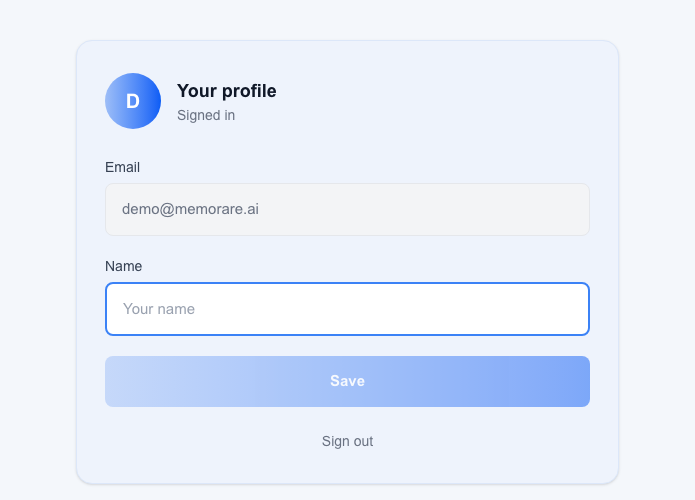
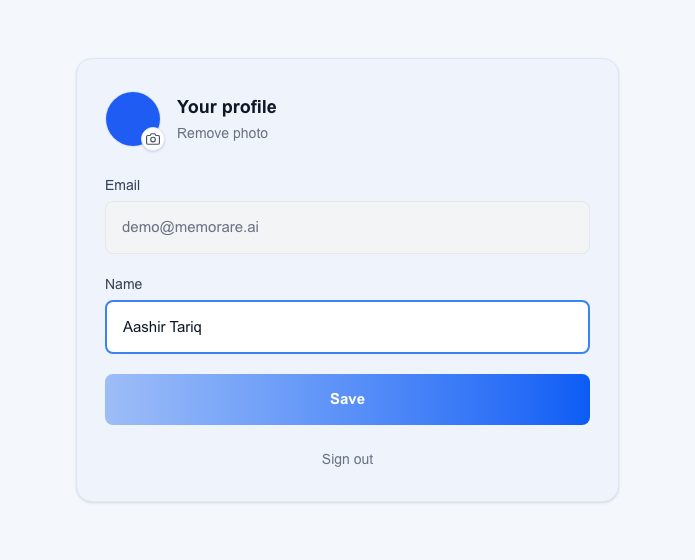
Persist mock profiles per subject and tidy the nginx header block
The mock rebuilt the profile on every token exchange, so an uploaded photo or a
saved name vanished on the next sign-in. Real providers key the profile to the
subject, and the demo now does too. Security headers move to the TLS server
block, where they are inherited by both locations; HSTS on the plain HTTP
redirect was ignored by browsers anyway.

diff --git a/mock/idp.js b/mock/idp.js
@@ -5,8 +5,9 @@ const CLIENT_ID = process.env.MOCK_CLIENT_ID || "local-dev-client-id";
 const CLIENT_SECRET = process.env.MOCK_CLIENT_SECRET || "local-dev-client-secret-PLACEHOLDER";
 const PORT = 9000;
 
-const codes = new Map();  // code  -> { challenge, user, nonce, used }
-const tokens = new Map(); // token -> mutable profile
+const codes = new Map();  // code  -> { challenge, sub, nonce, used }
+const tokens = new Map(); // token -> sub
+const users = new Map(); // sub   -> profile, persisted across sessions like the real provider
 
 const b64url = (buf) => buf.toString("base64url");
 const sha256 = (s) => b64url(createHash("sha256").update(s, "ascii").digest());
@@ -28,7 +29,20 @@ function deny(res, status, error, detail) {
 
 function bearer(req) {
   const m = /^Bearer (.+)$/.exec(req.headers.authorization || "");
-  return m ? tokens.get(m[1]) : undefined;
+  const sub = m ? tokens.get(m[1]) : undefined;
+  return sub ? users.get(sub) : undefined;
+}
+
+/** Profiles outlive sessions on the real provider, so keep them keyed by sub. */
+function upsert(seed) {
+  const existing = users.get(seed.sub);
+  if (existing) {
+    if (seed.email) existing.email = seed.email;
+    return existing;
+  }
+  const created = { ...seed, updated_at: "2026-08-28 00:00:00" };
+  users.set(seed.sub, created);
+  return created;
 }
 
 const server = http.createServer((req, res) => {
@@ -50,10 +64,11 @@ const server = http.createServer((req, res) => {
         ? { sub: "g-100", email: "googleuser@gmail.com", name: null, picture: "https://example.com/avatar.png" }
         : { sub: "e-100", email: q.get("login_hint") || "unknown@example.com", name: null, picture: null };
 
+    const profile = upsert(user);
     const code = b64url(randomBytes(16));
     codes.set(code, {
       challenge: q.get("code_challenge"),
-      user,
+      sub: profile.sub,
       nonce: q.get("nonce"),
       used: false,
     });
@@ -86,14 +101,14 @@ const server = http.createServer((req, res) => {
       const idTokenPayload = {
         iss: "https://auth.memorare.ai",
         aud: p.get("client_id"),
-        sub: rec.user.sub,
+        sub: rec.sub,
         exp: now + 3600,
         iat: now,
       };
       if (rec.nonce) idTokenPayload.nonce = rec.nonce;
       const idToken = signHS256(idTokenPayload, CLIENT_SECRET);
 
-      tokens.set(token, { ...rec.user, updated_at: "2026-08-28 00:00:00" });
+      tokens.set(token, rec.sub);
       console.log("[mock-idp] token exchange ok (PKCE verified)");
       res.writeHead(200, { "Content-Type": "application/json" });
       res.end(JSON.stringify({ access_token: token, token_type: "Bearer", expires_in: 3600, id_token: idToken, scope: "openid profile email" }));
